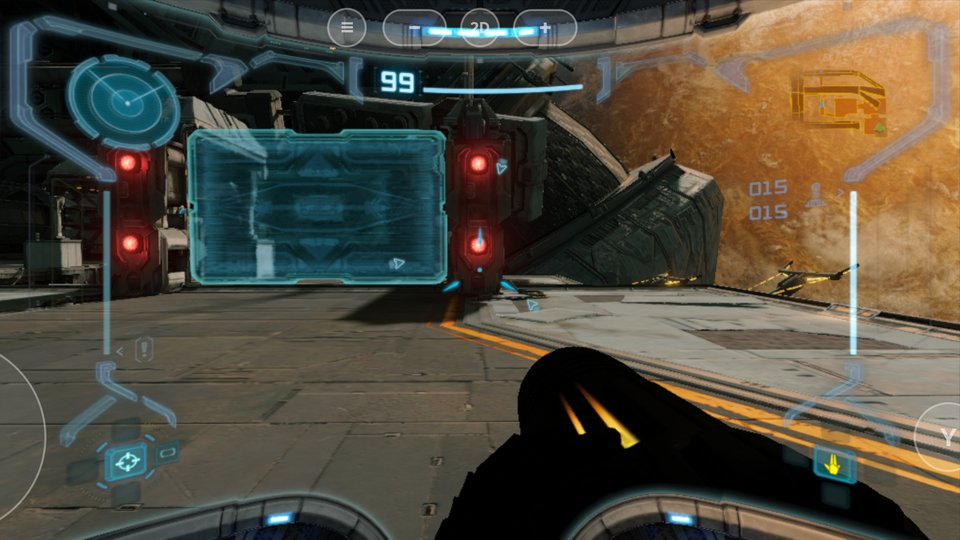
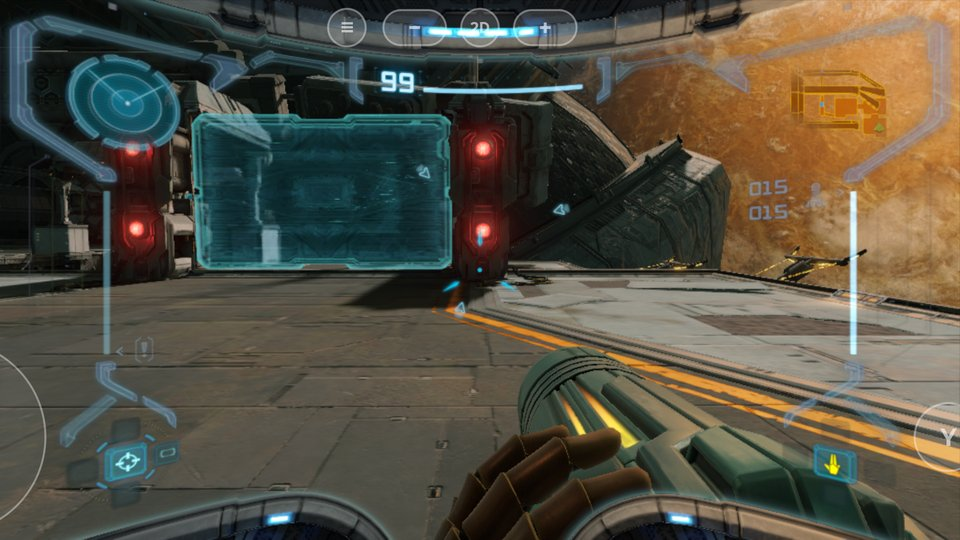
Android: textures in sparse virtual pools are read through the pool's page table, so Metroid Prime Remastered's arm cannon and everything its light probes light are lit on the Adreno 730
The arm cannon stayed black after the attribute-array fix, on Qualcomm's driver and on Turnip alike, so the cause was ours. Its fragment shaders take their ambient and directional light from 80-byte records in a storage buffer, which a vertex shader under rasterizer discard writes each frame by sampling six 512x256x368 light-probe volumes (BC1 and BC6H 3D textures, a sparse virtual pool each). Every record held a zero ambient colour and directional terms at their encoded floor: the volumes read as zero.

Android can't alias a physical pool's private memory into a virtual pool's range (vm_remap), and two things followed. vpool_map failed such a request, so MapVirtual stopped at the first request of each batch and the rest never reached the page table, and the game heard its mapping failed. And the Vulkan replay never read a sparse pool's texture through the page table as Metal's does: virtual pools are outside tex_storage_ok, so the volumes were GPU textures cleared to zero and never filled.
[…]

diff --git a/dm/android/gfx_vk.c b/dm/android/gfx_vk.c
@@ -1396,6 +1396,7 @@ typedef struct {
     VkImageUsageFlags usage; int ext_store;   // its usage; ext_store: STORAGE for views of another format only (EXTENDED_USAGE, vt_storage_up), so each view takes the usage its format has (view_get)
     uint8_t rbx;   // NVN RGBA4 / RGB5 / RGB5A1 / RGB565: the image holds the Vulkan format's order and guest bytes are exchanged where they cross (rb16.h: red's bit, 4 for RGBA4); 0: as they are
     uint8_t ds_copied;   // a depth image a copy wrote since its last render pass (copy_t2t; gfx_vk_dscopy.inc copied_depth_pass)
+    uint8_t sparse; uint64_t vgen, vseen;   // uploaded through its sparse pool's page table (sparse_tex), and the mapping generations of that upload and of the last look
 } vtex;
 static nvn_hmap g_tex = {.klen = 8}, g_cpuw = {.klen = 8};   // serial → vtex; serials the CPU wrote (WriteTexels). Keyed by the 8-byte serial
 static uint64_t g_pkg_uploads, g_pkg_reuploads, g_pkg_edge_skips, g_up_bytes, g_draws_skipped;
@@ -1414,6 +1415,20 @@ static VkImageAspectFlags aspect_of(VkFormat f) {
 // its pages were written (rows at the texture's own stride: vt_upload)
 static int is_linear(const tex_t *t) { return (t->d.flags & (NVN_TEXTURE_FLAGS_LINEAR | NVN_TEXTURE_FLAGS_LINEAR_RENDER_TARGET)) != 0; }
 static int is_packaged(const tex_t *t) { return t->mem && (t->has_layout || is_linear(t) || nvn_hm_get(&g_cpuw, &t->serial)); }
+// A sampled texture in a sparse virtual pool (hle_nvn.c) holds what the CPU wrote into the physical pages mapped there: it is read through the pool's page table (nvn_sparse_copy),
+// with unmapped pages read as 0, and uploaded again when a mapping in its range changes or the CPU writes a page behind it (nvn_sparse_since), as nvn_mtl.m tex_from_storage does.
+// Its own addresses are no memory on Android, which can't alias the physical pages there (plat_android.c vm_remap): it was a GPU texture of zeros. Metroid Prime Remastered streams
+// its light-probe volumes (six 512x256x368 BC1 / BC6H 3D textures, a pool each) that way; a vertex shader samples them into the records its materials are lit by, and with zeros
+// every model lit by probes (the arm cannon, debris) was dark but for its own glow. DM_VK_SPARSE_TEX=0 (env.txt): GPU textures, as before
+int nvn_sparse_pool(const void *pool); uint64_t nvn_sparse_gen(void); uint64_t nvn_sparse_copy(const void *pool, void *dst, uint64_t a, uint64_t n);   // hle_nvn.c
+int nvn_sparse_since(const void *pool, uint64_t a, uint64_t n, uint64_t gen, uint64_t stamp); void nvn_sparse_protect(const void *pool, uint64_t a, uint64_t n);
+static uint64_t g_sp_up, g_sp_reup, g_sp_bytes, g_sp_max, g_sp_ns;   // sparse uploads, of them again after a change, the bytes read through the page table, the largest, their time (the periodic syncs line)
+static int sparse_tex_on(void) { static int v = -1; if (v < 0) { const char *e = getenv("DM_VK_SPARSE_TEX"); v = !(e && *e == '0'); if (!v) LOG("[vk] DM_VK_SPARSE_TEX=0: textures in sparse pools are GPU textures, as before"); } return v; }
+static int sparse_tex(const tex_t *t) {
+    return t->mem && t->pool && t->pool->magic == MAGIC('P', 'O', 'O', 'L') && (t->pool->flags & NVN_MEMORY_POOL_FLAGS_VIRTUAL) && t->d.target != NVN_TEXTURE_TARGET_BUFFER
+        && !(t->d.flags & (NVN_TEXTURE_FLAGS_LINEAR | NVN_TEXTURE_FLAGS_LINEAR_RENDER_TARGET | NVN_TEXTURE_FLAGS_COMPRESSIBLE | NVN_TEXTURE_FLAGS_IMAGE))
+        && nvn_sparse_pool(t->pool) && sparse_tex_on();
+}
 void vkb_frame_forget(uint64_t serial);
 // g_vt_gen: bumped (under g_bk) whenever a vtex is freed or a serial stops resolving to the vtex it did (vt_destroy, the g_tex deletions): a draw's textures resolved in
 // stage_textures are used again in stage_set only while it has not moved (gfx_vk_draw.inc tex_once)
@@ -1646,17 +1661,23 @@ static void up_view(const vtex *v, const tex_t *t) {
 }
 static int vt_upload_(vtex *v, const tex_t *t, int track) {
     up_view(v, t);
-    if (track) { v->stamp = nvn_dirty_now(); nvn_dirty_protect(t->mem, t->L.size); }
+    // a sparse pool's texture: its bytes through the page table, after the stamp, the generation and the protection of the pages behind it are taken (a write or a mapping
+    // during the copy is then seen as a change)
+    const uint8_t *src = t->mem; uint8_t *sp = NULL; v->sparse = (uint8_t)sparse_tex(t);
+    if (!v->sparse && v->pkg && t->pool && (t->pool->flags & NVN_MEMORY_POOL_FLAGS_VIRTUAL) && !mtl_addr((uint64_t)(uintptr_t)t->mem, t->L.size, NULL, NULL)) return 0;   // a pool that stopped being sparse: its old range is no memory
+    if (track) { v->stamp = nvn_dirty_now(); if (v->sparse) { v->vgen = v->vseen = nvn_sparse_gen(); nvn_sparse_protect(t->pool, (uint64_t)(uintptr_t)t->mem, t->L.size); } else nvn_dirty_protect(t->mem, t->L.size); }
+    if (v->sparse) { if (!(sp = malloc(t->L.size ? t->L.size : 1))) return 0; nvn_sparse_copy(t->pool, sp, (uint64_t)(uintptr_t)t->mem, t->L.size); src = sp;
+        g_sp_up++; g_sp_bytes += t->L.size; if (t->L.size > g_sp_max) g_sp_max = t->L.size; }
     int bw, bh, bpb = nvn_fmt_bpb(t->d.format, &bw, &bh);
-    if (!bpb) { RED_ONCE(20, "packaged texture format %#x has no block size", t->d.format); return 0; }
+    if (!bpb) { RED_ONCE(20, "packaged texture format %#x has no block size", t->d.format); free(sp); return 0; }
     size_t total = 0;
     for (unsigned l = 0; l < v->levels; l++) {
         uint32_t w = v->w >> l ? v->w >> l : 1, h = v->h >> l ? v->h >> l : 1, z = v->type == VK_IMAGE_TYPE_3D ? (v->d >> l ? v->d >> l : 1) : 1;
         size_t pitch = v->conv ? (size_t)w * v->px : (size_t)((w + bw - 1) / bw) * bpb, rows = v->conv ? h : (h + bh - 1) / bh;
         total += pitch * rows * z * v->layers;
     }
-    stg_sl s = stg_take(total, v->conv ? v->px : bpb); if (!s.p) return 0;
-    VkCommandBuffer c = cb(); if (!c) return 0;   // may end an open pass: lin_writeback takes staging too (s stays valid: stg_take)
+    stg_sl s = stg_take(total, v->conv ? v->px : bpb); if (!s.p) { free(sp); return 0; }
+    VkCommandBuffer c = cb(); if (!c) { free(sp); return 0; }   // may end an open pass: lin_writeback takes staging too (s stays valid: stg_take)
     uint8_t *tmp = NULL; size_t off = 0;
     for (unsigned l = 0; l < v->levels; l++) {
         uint32_t w = v->w >> l ? v->w >> l : 1, h = v->h >> l ? v->h >> l : 1, z = v->type == VK_IMAGE_TYPE_3D ? (v->d >> l ? v->d >> l : 1) : 1;
@@ -1665,7 +1686,7 @@ static int vt_upload_(vtex *v, const tex_t *t, int track) {
             size_t out = v->conv ? (size_t)w * v->px * h * z : pitch * rows * z;
             if (v->conv) {
                 tmp = realloc(tmp, pitch * rows * z);
-                if (nvn_deswizzle(&t->d, l, y, t->mem, tmp, pitch)) { RED_ONCE(21, "deswizzle failed format %#x target %d", t->d.format, t->d.target); free(tmp); return 0; }
+                if (nvn_deswizzle(&t->d, l, y, src, tmp, pitch)) { RED_ONCE(21, "deswizzle failed format %#x target %d", t->d.format, t->d.target); free(tmp); free(sp); return 0; }
                 for (uint32_t k = 0; k < z; k++) bc_decode(v->conv, tmp + k * pitch * rows, pitch, w, h, s.p + off + (size_t)k * w * v->px * h, (size_t)w * v->px, v->px);
             } else if (t->d.target == NVN_TEXTURE_TARGET_BUFFER) tbr_fill(s.p + off, out, t->mem, t->L.size);   // rows of 16384 texels (vt_create): the buffer's bytes as they lie
             else if (is_linear(t)) {   // linear: block rows at the texture's stride (its layer's bytes over its block rows, as GetStorageSize gives them)
@@ -1677,17 +1698,17 @@ static int vt_upload_(vtex *v, const tex_t *t, int track) {
                     for (size_t r = 0; r < rows; r++) { size_t at = r * srow, k = at < left ? (left - at < pitch ? left - at : pitch) : 0;
                         memcpy(s.p + off + r * pitch, src + at, k); memset(s.p + off + r * pitch + k, 0, pitch - k); }
                 } else for (size_t r = 0; r < rows; r++) memcpy(s.p + off + r * pitch, src + r * srow, pitch);
-            } else if (nvn_deswizzle(&t->d, l, y, t->mem, s.p + off, pitch)) { RED_ONCE(21, "deswizzle failed format %#x target %d", t->d.format, t->d.target); free(tmp); return 0; }
+            } else if (nvn_deswizzle(&t->d, l, y, src, s.p + off, pitch)) { RED_ONCE(21, "deswizzle failed format %#x target %d", t->d.format, t->d.target); free(tmp); free(sp); return 0; }
             if (v->rbx) rb16_rows(s.p + off, out, 1, out, v->rbx);   // the guest's order into the image's (rb16.h)
             VkBufferImageCopy r = {.bufferOffset = s.off + off, .imageSubresource = {v->aspect, l, y, 1}, .imageExtent = {w, h, z}};
             vkCmdCopyBufferToImage(c, s.b, v->img, VK_IMAGE_LAYOUT_GENERAL, 1, &r);
             off += out;
         }
     }
-    free(tmp); cb_barrier();
+    free(tmp); free(sp); cb_barrier();
     if (vk_debug()) LOG("[vk] upload ser=%llu mem=%p size %#llx levels %u layers %u total %zu first bytes %02x %02x %02x %02x", (unsigned long long)v->serial, t->mem, (unsigned long long)t->L.size, v->levels, v->layers, total, s.p[0], s.p[1], s.p[2], s.p[3]);
     g_up_bytes += total;
-    if (track) { v->span = nvn_dirty_span(t->mem, t->L.size); v->seen = v->stamp; }
+    if (track) { v->span = v->sparse ? NULL : nvn_dirty_span(t->mem, t->L.size); v->seen = v->stamp; }
     return 1;
 }
 // A new GPU texture's initial content (nvn_mtl.m tex_init_fill): until the GPU first uses a texture it has not written it, so what its storage holds is its content when the
@@ -1868,16 +1889,21 @@ static vtex *vt_get_(const tex_t *ct, int rows) {
     if (v && (v->store != t->mem || !desc_same(&v->desc, &t->d))) {
         static int n; if (n++ < 8) LOG("[vk] texture ser=%llu met again with %s: made anew (storage %p, now %p)", (unsigned long long)t->serial, v->store != t->mem ? "other storage" : "another description", (const void *)v->store, (const void *)t->mem);
         nvn_hm_del(&g_tex, &t->serial); g_vt_gen++; vt_unref(v); v = NULL; }
-    int pkg = is_packaged(t) || tbuf, took = 0;   // rows: from guest memory, again when its pages change, as a linear texture (vt_upload_)
+    int pkg = is_packaged(t) || tbuf || sparse_tex(t), took = 0;   // rows: from guest memory, again when its pages change, as a linear texture (vt_upload_); sparse: through the page table
     if (!v && !pkg && (took = storage_first_use(t))) pkg = 1;
     if (v && v->pkg) {
         uint64_t now = nvn_dirty_now();
-        int clean = v->span && (now == v->seen || !nvn_dirty_since_span(v->span, t->mem, t->L.size, v->stamp));
+        int clean;
+        if (v->sparse) {   // a mapping in its range since the upload, or a write into a physical page behind it (the walk only when either moved since the last look)
+            uint64_t g = nvn_sparse_gen(); clean = (now == v->seen && g == v->vseen) || !nvn_sparse_since(t->pool, (uint64_t)(uintptr_t)t->mem, t->L.size, v->vgen, v->stamp); v->vseen = g;
+        } else clean = v->span && (now == v->seen || !nvn_dirty_since_span(v->span, t->mem, t->L.size, v->stamp));
         v->seen = now;
         if (clean) return v;
-        if (wb_absorb_on() && ab_take(v, t)) return v;   // written only by its own write-back: the image holds it (ab_note)
-        if (edges_clean(v, t)) return v;
-        if (vt_upload(v, t, 1)) { g_pkg_reuploads++; edges_take(v, t); }
+        if (!v->sparse && wb_absorb_on() && ab_take(v, t)) return v;   // written only by its own write-back: the image holds it (ab_note)
+        if (!v->sparse && edges_clean(v, t)) return v;
+        { uint64_t t0 = v->sparse ? clock_gettime_nsec_np(CLOCK_MONOTONIC) : 0; int sp0 = v->sparse;
+          if (vt_upload(v, t, 1)) { g_pkg_reuploads++; if (!v->sparse) edges_take(v, t); }
+          if (sp0) { g_sp_reup++; g_sp_ns += clock_gettime_nsec_np(CLOCK_MONOTONIC) - t0; } }
         return v;
     }
     if (v && !pkg) { v->used = atomic_load(&g_fence); return v; }
@@ -1889,7 +1915,11 @@ static vtex *vt_get_(const tex_t *ct, int rows) {
     }
     if (!(v = vt_create(t))) return NULL;
     v->used = atomic_load(&g_fence); ev_made(v);
-    if (pkg) { v->pkg = 1; v->taken = took == 2; if (vt_upload(v, t, 1)) { g_pkg_uploads++; edges_take(v, t); } }
+    if (pkg) { v->pkg = 1; v->taken = took == 2; uint64_t t0 = clock_gettime_nsec_np(CLOCK_MONOTONIC);
+        if (vt_upload(v, t, 1)) { g_pkg_uploads++; if (!v->sparse) edges_take(v, t); }
+        if (v->sparse) g_sp_ns += clock_gettime_nsec_np(CLOCK_MONOTONIC) - t0;
+        if (v->sparse) { static uint64_t n; if (n++ < 4) LOG("[vk] texture in a sparse pool: ser=%llu %ux%ux%u format %#x, uploaded through its page table, again when a mapping or a page behind it changes (%llu so far)",
+                                                             (unsigned long long)t->serial, t->d.width, t->d.height, t->d.depth, t->d.format, (unsigned long long)n); } }
     else if (t->pool) { v->filled = (uint8_t)tex_init_fill(v, t); share_take_over(&k); nvn_hm_put(&g_share, &k, v); v->shared = 1; }
     vt_ref(t->serial, v);
     return v;
@@ -2845,6 +2875,8 @@ void mtl_mem_stat(unsigned long long frame, unsigned long long mb) { LOG("[vk] f
           frame - f0, (double)(a - a0) / nf, (double)(r - r0) / nf, (double)(sl - s0) / nf, g_sp_on > 0 ? "" : " (DM_VK_STG_POOL=0)", nb, SP_NBLK, fr, SP_BLOCK >> 20, (unsigned long long)g_sp_made, (unsigned long long)atomic_load(&g_sp_trimmed),
           SP_MAXREQ >> 20, (unsigned long long)g_sp_big, (unsigned long long)g_sp_full);
       f0 = frame; a0 = a; r0 = r; s0 = sl; }
+    if (g_sp_up) LOG("[vk] textures of sparse pools through the page table: %llu uploads (%llu again after a change), %.1f MB read, the largest %.1f MB, %.1f ms (cumulative; sparse_tex)",
+        (unsigned long long)g_sp_up, (unsigned long long)g_sp_reup, g_sp_bytes / 1048576.0, g_sp_max / 1048576.0, g_sp_ns / 1e6);
     LOG("[vk] syncs by site (submitted / in flight): other %llu/%llu, draw %llu/%llu, upload %llu/%llu (%llu waited for nothing), t2b %llu/%llu, large copy %llu/%llu, buffer texture %llu/%llu, buffer image %llu/%llu, dispatch %llu/%llu",
         (unsigned long long)g_vsite[0][0], (unsigned long long)g_vsite[0][1], (unsigned long long)g_vsite[1][0], (unsigned long long)g_vsite[1][1], (unsigned long long)g_vsite[2][0], (unsigned long long)g_vsite[2][1], (unsigned long long)g_up_free,
         (unsigned long long)g_vsite[3][0], (unsigned long long)g_vsite[3][1], (unsigned long long)g_vsite[4][0], (unsigned long long)g_vsite[4][1], (unsigned long long)g_vsite[5][0], (unsigned long long)g_vsite[5][1],

diff --git a/dm/gfx/nvn/hle_nvn.c b/dm/gfx/nvn/hle_nvn.c
@@ -2547,7 +2547,14 @@ static int vpool_map(struct vpool *v, const map_req *r) {   // caller holds g_vp
     uintptr_t from = (uintptr_t)ph->mem + (uintptr_t)r->poff;
     vm_prot_t cur, max;
     kern_return_t kr = vm_remap(mach_task_self(), &to, r->size, 0, VM_FLAGS_FIXED | VM_FLAGS_OVERWRITE, mach_task_self(), (vm_address_t)from, FALSE, &cur, &max, VM_INHERIT_NONE);
-    if (kr != KERN_SUCCESS || to != (vm_address_t)(v->base + r->voff)) { LOG("[RED] virtual pool remap %#lx → %p (%#llx bytes) failed: %d", (unsigned long)from, (void *)(v->base + r->voff), (unsigned long long)r->size, kr); return 0; }
+    // Not aliased: the request stays in the page table (vpt_set above), which textures read (nvn_sparse_copy), as for a request the host page can't align; the GPU and buffers
+    // can't address it. Android can't alias a physical pool's private memory at all (plat_android.c vm_remap), so every sparse request lands here: failed, it ended the game's
+    // batch at its first request, and the rest never reached the page table (Metroid Prime Remastered's light-probe volumes, one 64 KB tile each, read as zero)
+    if (kr != KERN_SUCCESS || to != (vm_address_t)(v->base + r->voff)) {
+        static _Atomic uint64_t nf; if (!atomic_fetch_add(&nf, 1)) LOG("[nvn] virtual pool %p: a request could not be aliased (%#lx → %p, %#llx bytes: %d), kept in the page table only: textures read it, the GPU cannot address it (later cases are not logged)",
+                                                                       (const void *)v->pool, (unsigned long)from, (void *)(v->base + r->voff), (unsigned long long)r->size, kr);
+        return 1;
+    }
     mprotect((void *)to, r->size, PROT_READ | PROT_WRITE);   // the source may be write-protected by the dirty tracker at this moment; the alias itself is plain memory
     vrun_set(v, (uint64_t)r->voff, (uint64_t)r->voff + r->size, 1);
     uint64_t end = (uint64_t)r->voff + r->size;

diff --git a/README.md b/README.md
@@ -213,7 +213,7 @@ gesture bar. On a phone, DroidPlay's on-screen controls are drawn over the game.
 </tr>
 <tr>
 <td align="center" valign="top" width="33%"><img src="docs/images/android/metroid-dread-pixel-9-pro-xl.jpg" width="256" alt="Metroid Dread on a Google Pixel 9 Pro XL, from a new game: Samus jumping over the rocks of a cavern, a crawler below her"><br><small><b><a href="dm/games/010093801237C000/README.md">Metroid Dread</a></b><br><a href="#tiers"><img src="docs/badges/in-game.svg" height="20" alt="In-game"></a><br>Google Pixel 9 Pro XL: the first caverns, 60 fps</small></td>
-<td align="center" valign="top" width="33%"><img src="docs/images/android/metroid-prime-remastered-moto-razr-plus-2023.jpg" width="256" alt="Metroid Prime Remastered on a Moto Razr Plus 2023, from a new game: the Frigate Orpheon's landing deck, its force field a translucent cyan panel and the arm cannon dark but for its yellow light strips, under the on-screen controls"><br><small><b><a href="dm/games/010012101468C000/README.md">Metroid Prime Remastered</a></b><br><a href="#tiers"><img src="docs/badges/in-game.svg" height="20" alt="In-game"></a><br>Moto Razr Plus 2023: the Frigate Orpheon's landing deck, 60 fps</small></td>
+<td align="center" valign="top" width="33%"><img src="docs/images/android/metroid-prime-remastered-moto-razr-plus-2023.jpg" width="256" alt="Metroid Prime Remastered on a Moto Razr Plus 2023, from a new game: the Frigate Orpheon's landing deck, its force field a translucent cyan panel and the arm cannon lit green with its yellow strips, under the on-screen controls"><br><small><b><a href="dm/games/010012101468C000/README.md">Metroid Prime Remastered</a></b><br><a href="#tiers"><img src="docs/badges/in-game.svg" height="20" alt="In-game"></a><br>Moto Razr Plus 2023: the Frigate Orpheon's landing deck, 60 fps</small></td>
 <td align="center" valign="top" width="33%"><img src="docs/images/android/crash-bandicoot-n-sane-trilogy-galaxy-z-fold-8.jpg" width="256" alt="Crash Bandicoot N. Sane Trilogy on a Samsung Galaxy Z Fold 8's cover screen, from a new game: Crash on N. Sanity Beach in front of three crates, under the on-screen controls"><br><small><b><a href="dm/games/0100D1B006744000/README.md">Crash Bandicoot N. Sane Trilogy</a></b><br><a href="#tiers"><img src="docs/badges/in-game.svg" height="20" alt="In-game"></a><br>Samsung Galaxy Z Fold 8: N. Sanity Beach, 30 fps</small></td>
 </tr>
 <tr>
@@ -282,7 +282,7 @@ and what has not been tried.
 | Crash Bandicoot N. Sane Trilogy 1.0.0 | Samsung Galaxy Z Fold 8 | In-game: on the Galaxy Z Fold 8 (Adreno 840, its cover screen), over adb from a new game through the intros, the title, the game select and Crash Bandicoot's opening cinematic into N. Sanity Beach (walking, spinning a crate, jumping, a lost life and the restart, the pause menu), at 30 fps (every 30 s window 29.7–30.0, GPU 25 ms), with sound (no underruns) and 2.2 GB PSS; the save loads by Continue after a cold start ([its note](dm/games/0100D1B006744000/README.md#android)). The shader split now reads its Alchemy IGA archives; without them it stayed black after the copyright notice. Not played through a level by hand |
 | Xenoblade Chronicles 3 1.0.0 | Ayn Odin 2, Samsung Galaxy S25 Edge, Samsung Galaxy Z Flip 7, Moto Razr Plus 2023 | Playable – major issues through the opening, its first four battles and the Everblight Plain to a save: on the Ayn Odin 2 (Adreno 740, driver V@0676.0), with a game app from `main` at 3d9f479c, played by hand over adb from a new game (Normal). It covers the opening's cutscenes, four battles all won (auto-attacks, arts, a Role Action and the Talent Art), and the plain by day toward Colony 9; then System → Save, a cold start and Continue back at the same spot. 30 fps as on the Switch in every one of 276 ten-second windows (GPU 11.5 ms at 680 MHz), with sound running (no underruns; not listened to), no crash or kill, 2.9–3.3 GB PSS. The Galaxy Z Flip 7 (Xclipse 950) and the Moto Razr Plus 2023 (Adreno 730) played the same route, save and Continue included, on `main` at 021fc6b6 with the replay-wait fixes #367–#369. The Z Flip 7 held 30 fps in 280 of 294 windows (GPU 18.6 ms); the Razr's cutscenes run at 30 fps but its battles and the plain at 17–28 fps, bound by its GPU. On the Galaxy S25 Edge (Adreno 830) the opening, the first battle and the plain run at 30 fps (GPU 24.6–24.9 ms); before #367–#369 its gameplay ran at 5.6–7 fps. Issues that keep it from Playable – minor issues: one red line a session (a transform-feedback vertex shader with no capture variant, whose effect isn't found); the save slots' thumbnails are black; the picture is compared with the Mac's only in the first battle; on the plain by day the Z Flip 7's GPU is 85–95% busy and some windows drop to 23–28 fps; the Razr's battles run at 17–28 fps ([its note](dm/games/010074F013262000/README.md#android)). Built from the cartridge's base game 1.0.0 with a profile derived from 2.2.1's; all 26,907 of its shaders translated. Not tried: past the plain, the other devices |
 | Metroid Dread 1.0.0 | Google Pixel 9 Pro XL, Moto Razr Plus 2023, Retroid Pocket 5 | In-game: on the Pixel 9 Pro XL (Mali-G715), the Razr Plus 2023 (Adreno 730) and the Retroid Pocket 5 (Adreno 650), played over adb from a new game through the opening movie, the briefing and the gunship's approach into control in the first cavern, then walking, jumping and shooting through the next caverns and a fight with the crawlers there. 60 fps on the Pixel (GPU 9–10 ms, 2.6 GB at most), 52–60 on the Razr (52–53 in the caverns, 2.5 GB PSS), 53–58 on the Retroid Pocket 5 (2.6 GB PSS). The first room looks as on the Mac; one red line (a depth-stencil clear with no depth target); sound with 2 short underruns in 152 reports on the Pixel, none on the other two. Packed from a profile derived from 2.1.0 (the cartridge holds 1.0.0). Not tried: saves (no save station reached), past the first caverns, a person playing ([its note](dm/games/010093801237C000/README.md#android)) |
-| Metroid Prime Remastered 1.0.0 | Moto Razr Plus 2023, Google Pixel 9 Pro XL | In-game: on the Razr Plus 2023 (Adreno 730), from a new game over adb (the menus by frame-keyed presses) through the briefing and the gunship's approach into control on the Frigate Orpheon's landing deck, walked to the lock-on tutorial, at 60 fps (GPU 10 ms), 2.0 GB PSS, with no red line but the virtual pool remaps. Issues: the arm cannon's body is dark (its light strips draw since the vertex shaders reading attributes through an array are given every attribute). The force fields drew as a jumble of blue shapes until shaders' input arrays were split into an input per location (Qualcomm's driver linked only their first element). Too big for a game app (2.66 GiB of shaders), so installed through DroidPlay. Before the guest block was 32 MB-aligned it crashed at start on Android. On the Pixel 9 Pro XL (Mali-G715) the title is nearly black and the driver crashes building a pipeline about 3 minutes in. Not tried: sound, saves, past the first room ([its note](dm/games/010012101468C000/README.md#android)) |
+| Metroid Prime Remastered 1.0.0 | Moto Razr Plus 2023, Google Pixel 9 Pro XL | In-game: on the Razr Plus 2023 (Adreno 730), from a new game over adb (the menus by frame-keyed presses) through the briefing and the gunship's approach into control on the Frigate Orpheon's landing deck, walked to the lock-on tutorial, at 60 fps (GPU 10 ms), 2.0 GB PSS, with no red line. No picture issue left on the landing deck: the arm cannon was dark until textures in sparse pools were read through their page table (the light-probe volumes), and the force fields drew as a jumble of blue shapes until shaders' input arrays were split into an input per location (Qualcomm's driver linked only their first element). Too big for a game app (2.66 GiB of shaders), so installed through DroidPlay. Before the guest block was 32 MB-aligned it crashed at start on Android. On the Pixel 9 Pro XL (Mali-G715) the title is nearly black and the driver crashes building a pipeline about 3 minutes in. Not tried: sound, saves, past the first room ([its note](dm/games/010012101468C000/README.md#android)) |
 | Bayonetta 2 1.0 | OnePlus Pad 3 | In-game: 60 fps (the game's rate; 30 in its cutscenes), played by hand from a new game through the opening, the tutorial and Verse 1's first fights on the jet in Easy's Automatic Mode, with sound (an audio dump) and the auto-save, which Load Game lists after a restart ([the test](dm/android/baselines.md#a-first-test-bayonetta-2-on-a-oneplus-pad-3)). Built from the base game with a profile derived from 1.2's. Loading the save wasn't seen through (another run took the device), so not Playable yet; not tried past Verse 1's first fights, in Normal, or on the other devices |
 | The Legend of Zelda: Tears of the Kingdom 1.4.3 | Samsung Galaxy S25 Edge, Retroid Pocket G2 | In-game, blocked: under half the target frame rate (60 fps, the profile's rate). From a new game on the Galaxy S25 Edge (Adreno 830) at a3bbaa9a, played step by step over adb for about 15 minutes: the opening's cave beneath Hyrule Castle with Zelda (first control 82 s after launch, on a first start), the cutscenes and dialogue, the brick halls and the inscription; a save from the game's menu, a cold start and Continue back to it. The chamber below, the fall and the Great Sky Island not reached. 15.5 fps (median frame 61 ms, 30 s windows 11–20; 18.6 after Continue): the frame step holds 3 vsyncs, and the replay waits for the GPU about 44 times a frame for the game's reads of what its draws wrote (GPU 27 ms a frame); one red line (a render pass with no image), sound running with no underrun (not listened to), no kill (3.1 GB PSS) ([its note](dm/games/0100F2C0115B6000/README.md#android)). A tester's save from another system ([#457](https://github.com/enjoyerofslop/droidplay-core/issues/457)), at Thyphlo Ruins by night, hung for good on the loading screen or just after the world drew, on the S25 Edge and on the tester's Retroid Pocket G2 (Adreno 735, Turnip): two of DroidPlay's locks taken in opposite orders, fixed by [#481](https://github.com/enjoyerofslop/droidplay-core/pull/481) (in 0.8.10). With the fix that save played in 4 loads of 4 on the S25 Edge, but at about 3 fps there (about 660 submissions and 610 waits for them a frame, GPU about 115 ms); the tester hasn't confirmed the fix on their phone yet. On the Retroid Pocket G2 the tester reports a new game running well with [Turnip](#another-vulkan-driver-turnip), with frame drops now and then and minor artefacts; the phone's own driver doesn't start it, as Qualcomm's shader compiler crashes on one of the translated compute shaders ([#245](https://github.com/enjoyerofslop/droidplay-core/issues/245), not fixed yet). Not tried on the other devices |
 | **Mario Kart World 1.8.0 (Switch 2)** | OnePlus Pad 3, Galaxy S25 Edge with the Turnip T30 driver, Google Pixel 9 Pro XL, Samsung Galaxy Z Flip 7, Ayn Odin 2 | **In-game, blocked** (2026-11-11, on the OnePlus Pad 3 with Qualcomm's own driver): the title, the menus by adb input, and a Mushroom Cup race at Mario Bros. Circuit, driven and steered, at 20–26 fps in the race (frames of 34–50 ms; the replay's CPU 23–38 ms, the GPU 18–29 ms) with raw global memory, which its profile turns on, and 15–22 fps without, the menus at about 30 fps. Since its profile also runs the indirect dispatches on the GPU's copy of their counts (2026-11-12, on 0.8.4's host), the race runs at 27.3 fps on the Pad 3 (24.8 without that) and 24.1 on a Samsung Galaxy Z Flip 7 (19.5); a Google Pixel 9 Pro XL ran it at 28.8–29.2 fps either way, but froze once in two launches with it and crashed in Mali's driver once in three without. The track untextured (sparse textures), no roadside bushes (no mesh shaders). The Galaxy S25 Edge reached the same race with Mr. Purple's Turnip T30 through `DM_VK_DRIVER`. 168 of its compute shaders declare 48 KB of shared memory, past the 32 KB that Qualcomm's driver takes: they now take it from a storage buffer there; without that the GPU is lost about 10 s after the title. The faults now and then in the menus and races (in Qualcomm's driver on the Pad 3, in the replay on the S25 Edge, in Mali's driver on a Google Pixel 9 Pro XL) came from holes that a refused virtual pool mapping left in the pool's reservation, fixed by [#298](https://github.com/enjoyerofslop/droidplay-core/pull/298): with it, the Pixel 9 Pro XL went through the menus and ran a race out in 4 runs of 4 (all 4 failed before), at about 10 fps in the race (frames of 97–99 ms, the GPU 45 ms), and the S25 Edge ran two more races without a fault. The Odin 2 (2026-11-08): the world map at about 55 fps, the attract drive at about 3.4 fps. Open: memory (0.5–0.7 GB left on the 12 GB Pad 3 in a race; faster runs with raw global memory were killed; on 2026-11-12, OnePlus's leak killer ended 4 of 7 launches on the Pad 3 at the race load, at about 8 GiB), sparse textures, virtual memory pools, no mesh shaders |

diff --git a/docs/reference/nvn-objects.md b/docs/reference/nvn-objects.md
@@ -126,6 +126,37 @@ A game may tell NVN objects apart by their bytes, without an NVN call. A host re
   84 MB request failed, a 17 MB arena block was mapped inside its destination, the same request failed again 71 s later, and the replay faulted writing the block 15 ms
   after that. On a OnePlus Pad 3 the driver faulted at a submission right after a run of such requests.
 
+### Textures of a sparse pool read through its page table on Android
+
+- **Symptom:** Android only, in a game that streams textures into sparse virtual pools: what those textures feed reads as zero, with `[RED] virtual pool remap … failed: 5` lines (one per batch of mapping requests). Metroid Prime Remastered's arm cannon, and every model lit by its light probes, was dark but for its own glow on a Moto Razr Plus 2023 (Adreno 730), on Qualcomm's driver and on Turnip alike, while the Mac lit it.
+- **Cause:** two gaps, both from Android being unable to alias a physical pool's private memory into a virtual pool's range (`plat_android.c` `vm_remap`; see [A refused virtual pool mapping left a hole in the pool's reservation on Android](#a-refused-virtual-pool-mapping-left-a-hole-in-the-pools-reservation-on-android)):
+  - `vpool_map` (`hle_nvn.c`) failed a request it couldn't alias. `nvnMemoryPoolMapVirtual` then stopped at it, so only the first request of each batch reached the page table, and the game was told its mapping failed.
+  - The Vulkan replay never read a sparse pool's texture through the page table, as Metal's does ([Textures read through a 4 KB page table of a sparse pool](#textures-read-through-a-4-kb-page-table-of-a-sparse-pool)). `tex_storage_ok` leaves virtual pools out, so such a texture was a GPU texture, its image cleared to zero and never filled.
+  - Metroid Prime Remastered streams its light-probe volumes that way: six 512x256x368 3D textures (BC1 and BC6H, one sparse pool each, 64 KB tiles mapped from physical pools). A vertex shader under rasterizer discard (`f7800d296c68645b`) samples them into an 80-byte record per object, which the materials' fragment shaders read from a storage buffer (`c0 + 0x144`) for their ambient and directional light. With zeros every record held a black ambient colour.
+- **Fix:**
+  - `vpool_map` keeps a request it can't alias in the page table and goes on, as it does for one the host page can't align: textures read it, the GPU and buffers can't address it. One `[nvn] virtual pool … could not be aliased` line replaces the red lines.
+  - `gfx_vk.c` takes a sampled texture in a sparse pool (no linear, render-target, compressible or image flags, as `nvn_mtl.m` `tex_from_storage`) from its storage: `vt_upload_` copies its bytes through the page table (`nvn_sparse_copy`, unmapped pages as 0) and deswizzles them. `vt_get_` uploads it again when a mapping in its range or a physical page behind it changed (`nvn_sparse_since`), after `nvn_sparse_protect` took the pages' write protection. Such images are at most `DM_VK_SPARSE_MAX_MB` (256 MB), so an upload takes at most that much again for the copy and the staging. The periodic `[vk] textures of sparse pools through the page table` line counts the uploads, the bytes read, the largest and their time.
+  - `DM_VK_SPARSE_TEX=0` (env.txt) makes them GPU textures again; the page table keeps every request either way.
+- **Check (2026-11-17):** Metroid Prime Remastered on the Razr from a new game, the same frame-keyed route, a screenshot at frame 13,200 and frames 13,200–15,000 timed. One host, `main` 2a376a35 with [the attribute-array fix](rendering.md#a-shaders-attribute-array-its-elements-past-the-first-not-fetched-or-not-linked-android) and this change:
+  - As built: the cannon green with its yellow strips and Samus's brown glove, as on the Mac. The cannon's pass came out at a mean of (138, 156, 132) of 255. The probe volumes were uploaded through the page table (the log names the first four); no red line.
+  - With `DM_VK_SPARSE_TEX=0`: the cannon black but for its strips, a mean of (35, 33, 9), as without the change.
+  - 60.0 fps either way, GPU p50 9.97–10.18 ms and 9.94–10.15 ms.
+  - A diagnostic build logged the records the fragment shaders read before the change: the ambient colour 0 and each directional term at its encoded floor (-0.97, -1.02, -1.0, 1), what zero samples give.
+  - Not run: other GPUs.
+- **Check (2026-11-17, rebased on `main` 4e6105e5), the other games whose Android logs show sparse pools, on the Razr against `DM_VK_SPARSE_TEX=0`:**
+  - Metroid Prime Remastered as above: the cannon lit, a mean of (140, 160, 136) against (34, 30, 9); 6 uploads, 184 MB read, the largest 46 MB, 260 ms in all.
+  - OCTOPATH TRAVELER 1.0.3, from a new game to the traveler selection, whose world map is in sparse pools (three 6-minute runs):
+    - the same picture both ways;
+    - 59.4–59.6 fps, GPU p50 9.14–9.15 ms;
+    - PSS at most 1.69–1.72 GB either way;
+    - 6 uploads through the page table (4 of them after a mapping changed), 4.7 MB in all, the largest 1.4 MB, 3–6 ms.
+  - Mario Kart World 1.8.0 is too big for the Razr's 7 GB either way:
+    - the low-memory killer ended every run: with the change at 190 and 240 s (swap full), without it at 30 s; PSS 3.6–5.1 GB;
+    - one 95.6 MB sparse texture went through the page table at the start (0.2–0.6 s, once), and none after that before the kill;
+    - for that moment the copy and its staging take about twice the texture's size.
+  - Not run: Mario Kart World past its title on a phone with the memory for it.
+- **Found on:** [Metroid Prime Remastered](../../dm/games/010012101468C000/README.md#android) (q356).
+
 ### Textures read through a 4 KB page table of a sparse pool
 
 - **Symptom:** `CRASH sig=10` in `memmove` from `pkg_upload` → `nvn_deswizzle`, at an address 32 GB into a sparse virtual pool; textures with unaliased tails came out magenta.

diff --git a/dm/games/010012101468C000/README.md b/dm/games/010012101468C000/README.md
@@ -48,10 +48,10 @@ First test on Android, 2026-11-12, from `main` c6920f36 with the guest block 32 
 - **Moto Razr Plus 2023** (Adreno 730, Qualcomm's driver 0x80267062, Vulkan 1.1.128): from a new game with the [Mac route](#mac-routes)'s frame-keyed presses, through the briefing and the gunship's approach, into control on the Frigate Orpheon's landing deck. Walked forward over adb to the lock-on tutorial.
   - **Frame rate:** 60.0 fps in every 30 s window, GPU about 10 ms a frame.
   - **Memory:** 2.0 GB PSS in the game process, 0.26 GB of it swapped out.
-  - **Red lines:** only `virtual pool remap … failed: 5`, 6 times.
+  - **Red lines:** none since q356 (before it, `virtual pool remap … failed: 5` 6 times: the light-probe volumes' pools, now one `[nvn] virtual pool … could not be aliased` line).
   - **Picture, against the Mac at the same points:**
     - **Resolved: the force fields drew as a jumble of blue triangles and blocks** instead of a translucent cyan panel (the landing deck's door, and the panel beside the lock-on tutorial), with the lights beside them pink or green and the floor strip a different colour each run. Qualcomm's driver linked only the first element of the fragment shaders' input array (`in vec4 _50[16]`, read at a run-time index to pick a UV set: 7,390 of the game's fragment shaders), which matches none of the vertex shader's separate outputs: [A shader's attribute array: its elements past the first not fetched or not linked (Android)](../../../docs/reference/rendering.md#a-shaders-attribute-array-its-elements-past-the-first-not-fetched-or-not-linked-android). The door field is vertex `2052c1dde364833f`, fragment `8a9e8ae4d53c4a82`, in the translucent pass after the scene's blurred copy (q335, 2026-11-13; q354, 2026-11-17 on `main` 2a376a35: the same jumble before, drawn as on the Mac after). `DM_VK_POS_ROWS=1`, `DM_VK_COPIED_DEPTH=0` and `DM_VK_ASYNC_PIPE=0` changed nothing; Turnip (T30) drew the fields right with main's host. 60.0 fps either way.
-    - **Partly resolved: the arm cannon was a black silhouette,** on Turnip too. Its pass after the world has three draws; two of them (vertex `9b97258ddcf23736` and `099c3ff54bb28029`) read attributes 0, 1, 4, 5 and 6 through an input array, as 3,858 of the game's vertex shaders do, and the replay gave their pipelines attribute 0 alone (same entry). With every attribute given, the cannon's yellow light strips draw and its pixels come out at a mean of (34, 30, 9) of 255 instead of (7, 6, 3) (q354), but the body is still dark where the Mac's is lit green. Next: all three fragment shaders (`60840532d150e97a`, `a99a06e6c78d6a20`, `eb10d82ae5a756df` for the third draw, vertex `105cfdacb6b61f3c`) light the model from 80-byte records in a fragment-stage storage buffer (`c0 + 0x144`, record `c5[5].x`, bytes 32–80), as 5,119 of the game's fragment shaders do; compare that buffer's bytes at the draw on the Razr with the Mac's, and check whether a compute pass writes it (the game's compute shaders `a8bc736ec3903df2`, `5e7b1143791b2f5e`, `bdfcfe6c708e4220` and `54d8d67c5ab75355` write storage buffers at `c0 + 0xc4` / `0xc8`). `DM_VK_SB_KEEP=0` with `DM_VK_SB_DIRTY=0` changed nothing (q335). A floating piece of debris in the sky is black the same way.
+    - **Resolved: the arm cannon was a black silhouette,** on Turnip too. Two causes, both general: two of its pass's three draws (vertex `9b97258ddcf23736` and `099c3ff54bb28029`) read attributes 0, 1, 4, 5 and 6 through an input array and were given attribute 0 alone (the attribute-array entry above; its light strips drew after that, q354); and its body, like every model the game lights from its light probes, read a black ambient colour. Each frame a vertex shader under rasterizer discard (`f7800d296c68645b`) samples six 512x256x368 light-probe volumes (BC1 and BC6H 3D textures, a sparse virtual pool each) into an 80-byte record per object, which the materials' fragment shaders (`60840532d150e97a`, `a99a06e6c78d6a20`, `eb10d82ae5a756df`) read from a storage buffer at `c0 + 0x144`. On Android those volumes were images of zeros: [Textures of a sparse pool read through its page table on Android](../../../docs/reference/nvn-objects.md#textures-of-a-sparse-pool-read-through-its-page-table-on-android) (q356, 2026-11-17: green with yellow strips and the brown glove, as on the Mac; black again with `DM_VK_SPARSE_TEX=0`; 60 fps either way).
     - The deck's yellow floor strip shows, which an M4 Pro Mac doesn't draw either ([Open](#open)).
 - **Pixel 9 Pro XL** (Mali-G715, Arm's driver 0xd803000):
   - The title is nearly black: only some of its particles are drawn.
@@ -70,6 +70,7 @@ General host and tool changes first needed here; each applies to every game:
 - **Integer textures read through float slots** (`tex_float_fit`): [rendering.md](../../../docs/reference/rendering.md#integer-textures-read-through-float-slots).
 - **Android:** the guest block 32 MB-aligned: [The guest block 32 MB-aligned (Android)](../../../docs/reference/memory.md#the-guest-block-32-mb-aligned-android).
 - **Android:** attribute arrays, every location they cover in the replay's masks and split into an input per location (`spv_inarr.h`): [rendering.md](../../../docs/reference/rendering.md#a-shaders-attribute-array-its-elements-past-the-first-not-fetched-or-not-linked-android).
+- **Android:** textures of sparse virtual pools read through the pool's page table (`sparse_tex`, `vpool_map`): [nvn-objects.md](../../../docs/reference/nvn-objects.md#textures-of-a-sparse-pool-read-through-its-page-table-on-android).
 
 ## Open
 

diff --git a/docs/agents/symptoms.md b/docs/agents/symptoms.md
@@ -595,6 +595,7 @@ One line per symptom in the [subsystem references](../reference/): what you see 
 - `[RED] MapVirtual: non-contiguous mapping (true sparse) not implemented`, on small virtual pools; streamed textures black or missing (OCTOPATH TRAVELER's village ground and plants). → [Virtual pools of one texture each, mapped before and after the texture](../reference/nvn-objects.md#virtual-pools-of-one-texture-each-mapped-before-and-after-the-texture)
 - `[RED] NVN unimplemented function called: nvnTextureBuilderGetSparseTileLayout`, then an out-of-memory abort in Unreal's allocator (`Failed to allocate 1879113728 bytes from Standard Allocator`, on `DM_DBG=1`). → [The sparse tile layout of a texture](../reference/nvn-objects.md#the-sparse-tile-layout-of-a-texture)
 - Android only, in a game with sparse virtual pools: a SIGSEGV now and then, minutes into a run, right after `[RED] virtual pool remap … failed: 5` lines. It lands → [A refused virtual pool mapping left a hole in the pool's reservation on Android](../reference/nvn-objects.md#a-refused-virtual-pool-mapping-left-a-hole-in-the-pools-reservation-on-android)
+- Android only, in a game that streams textures into sparse virtual pools: what those textures feed reads as zero, with `[RED] virtual pool remap … failed: 5` lines (one per batch of mapping requests). Metroid Prime Remastered's arm cannon, and every model lit by its light probes, was dark but for its own glow on a Moto Razr Plus 2023 (Adreno 730), on Qualcomm's driver and on Turnip alike, while the Mac lit it. → [Textures of a sparse pool read through its page table on Android](../reference/nvn-objects.md#textures-of-a-sparse-pool-read-through-its-page-table-on-android)
 - `CRASH sig=10` in `memmove` from `pkg_upload` → `nvn_deswizzle`, at an address 32 GB into a sparse virtual pool; textures with unaliased tails came out magenta. → [Textures read through a 4 KB page table of a sparse pool](../reference/nvn-objects.md#textures-read-through-a-4-kb-page-table-of-a-sparse-pool)
 - `kIOGPUCommandBufferCallbackErrorOutOfMemory` on every command buffer from the first frames, no frame presented, "GPU allocated" near the Mac's memory; `large texture … in a sparse virtual pool` lines name textures of gigabytes. → [Large sparse textures as Metal placement sparse textures](../reference/nvn-objects.md#large-sparse-textures-as-metal-placement-sparse-textures)
 - the placement heaps (`sparse tiles: placement heap N`) keep growing through a session, to several times the memory the game maps behind its sparse textures. On a 16 GB M1 Pro, Mario Kart World's race reached 11 heaps (2.75 GB) within three minutes, wired memory 8.7 GB, and the system swapped: frames went from 25 to 50 ms. A GPU write through one place of a page is also not seen at another. → [Physical pages mapped at several places of a placement sparse texture](../reference/nvn-objects.md#physical-pages-mapped-at-several-places-of-a-placement-sparse-texture)
